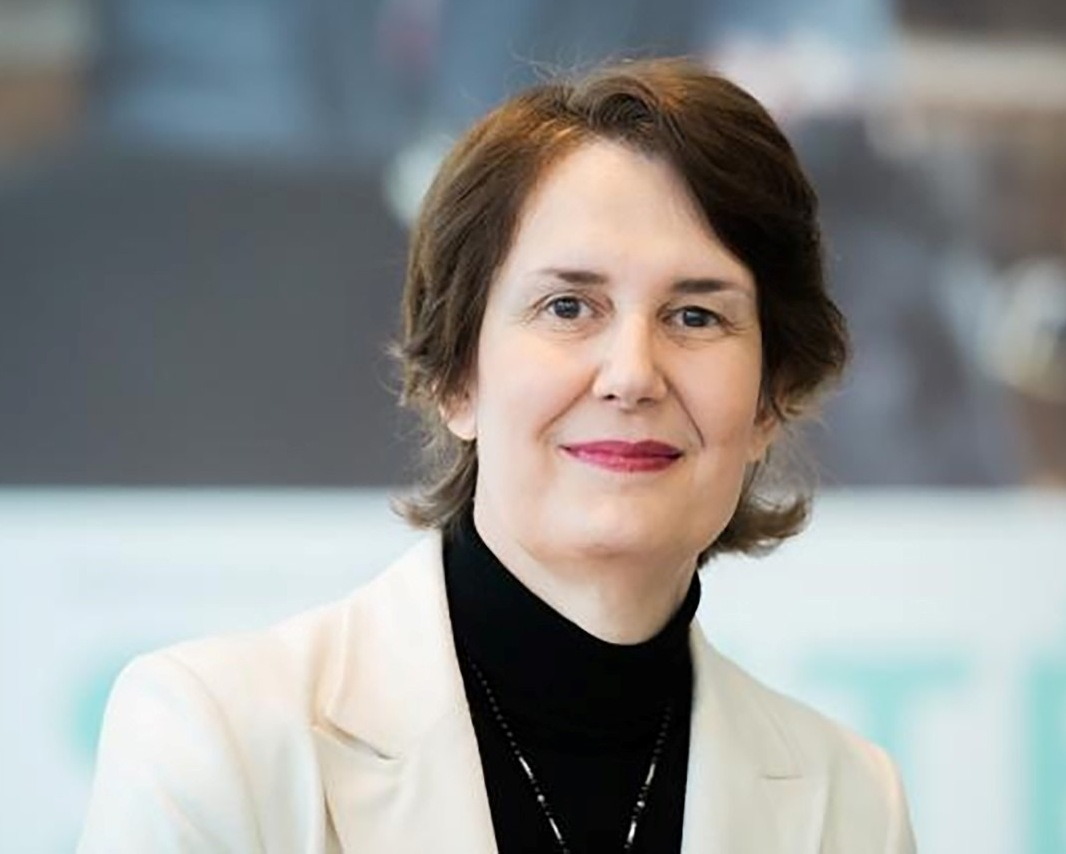
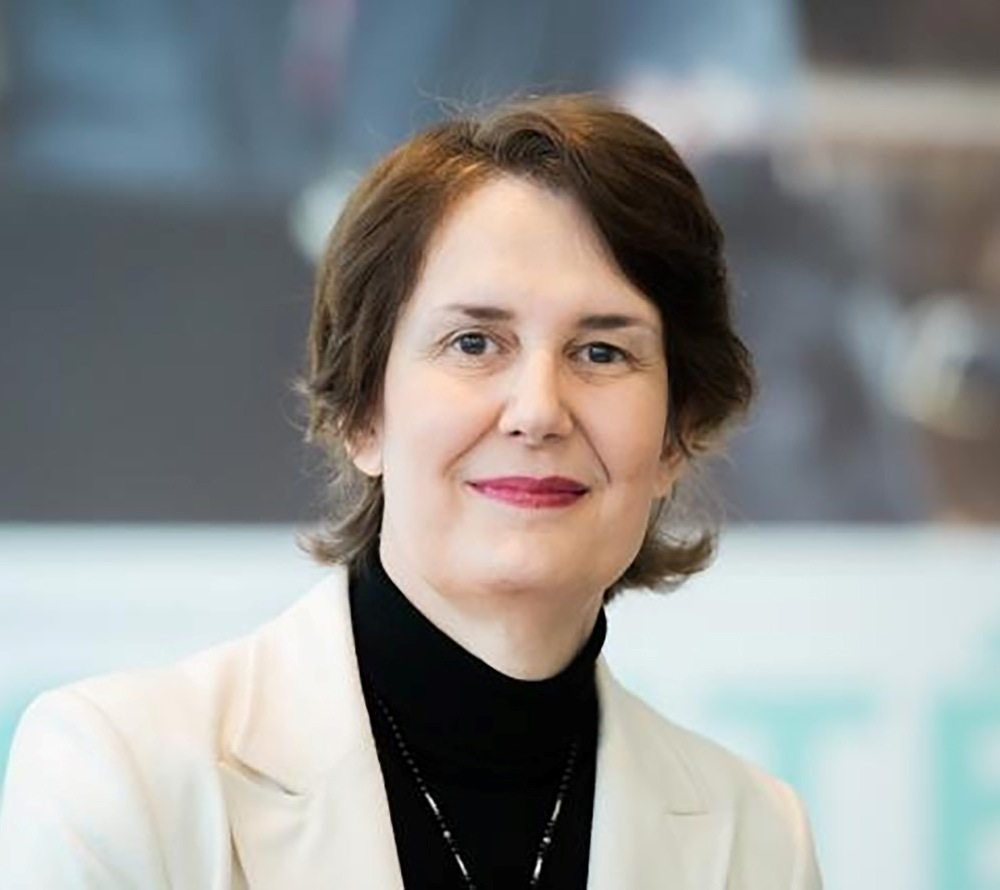
change photo galina and add new text in footer

diff --git a/components/Footer.tsx b/components/Footer.tsx
@@ -70,7 +70,17 @@ const Footer: React.FC = () => {
             </div>
           </div>
           <aside className="mt-4">
-            <p className="text-center text-white">Copyright © {currentYear} - All right reserved</p>
+            <p className="text-center text-white text-sm">
+              Copyright © {currentYear} - All right reserved
+            </p>
+            <p className="text-xs font-light tracking-normal leading-[24px] text-white text-center font-monserat">
+              Згода на фото- та відеозйомку. Реєструючись на конференцію та своєю присутністю на ній
+              ви надаєте згоду на фото- та відеозйомку. Відео/фотографії можуть бути використані для
+              рекламування Європейського Союзу установами ЄС та «Надання підтримки Україні у
+              розвитку сучасної системи охорони здоров’я» на веб-сторінках, у соціальних мережах,
+              інформаційних бюлетенях, листівках, прес-релізах, публікаціях та/або інших
+              комунікаційних матеріалах.
+            </p>
           </aside>
         </div>
       </div>
